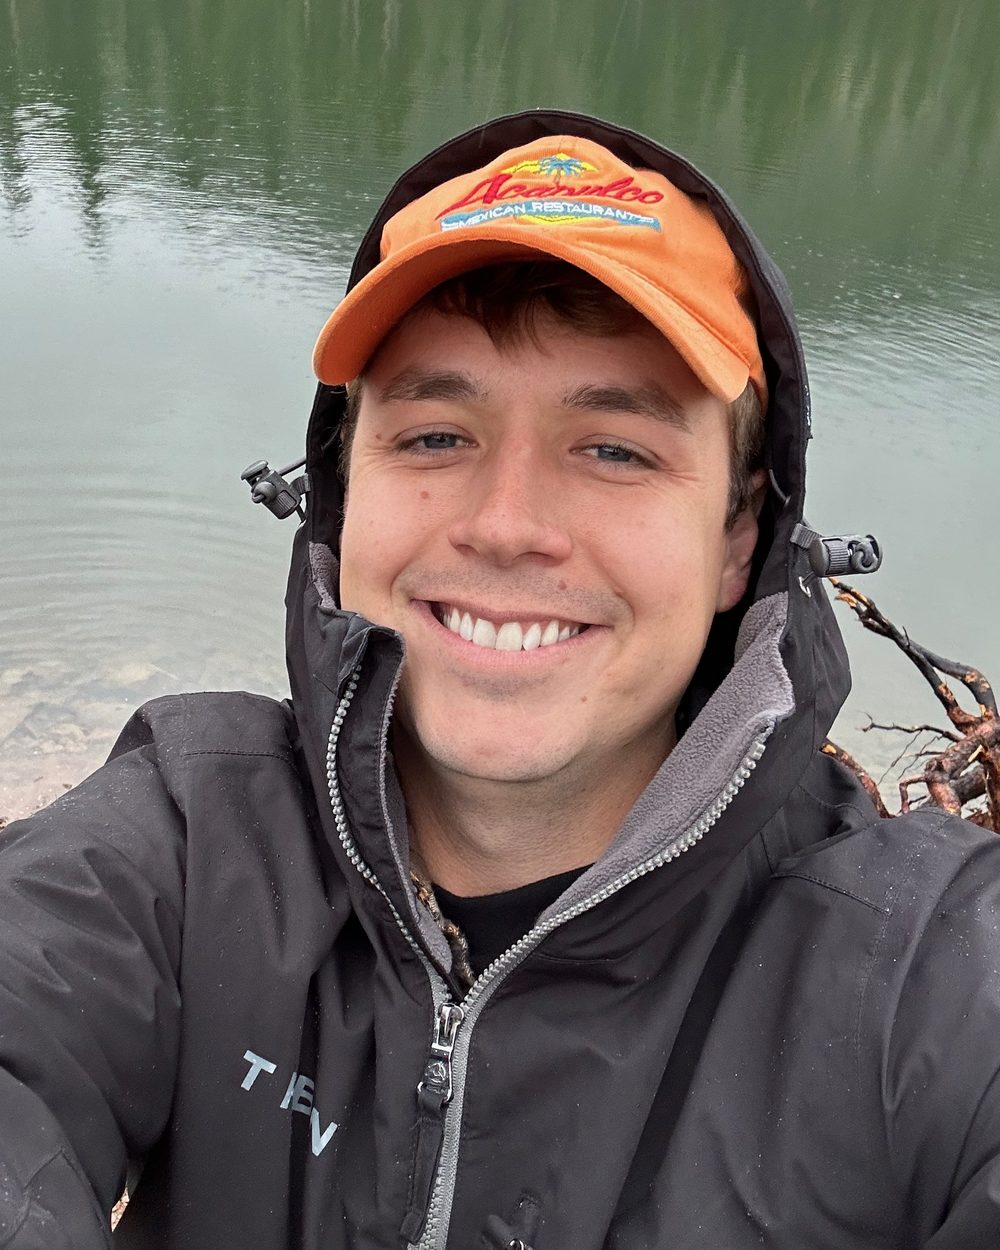
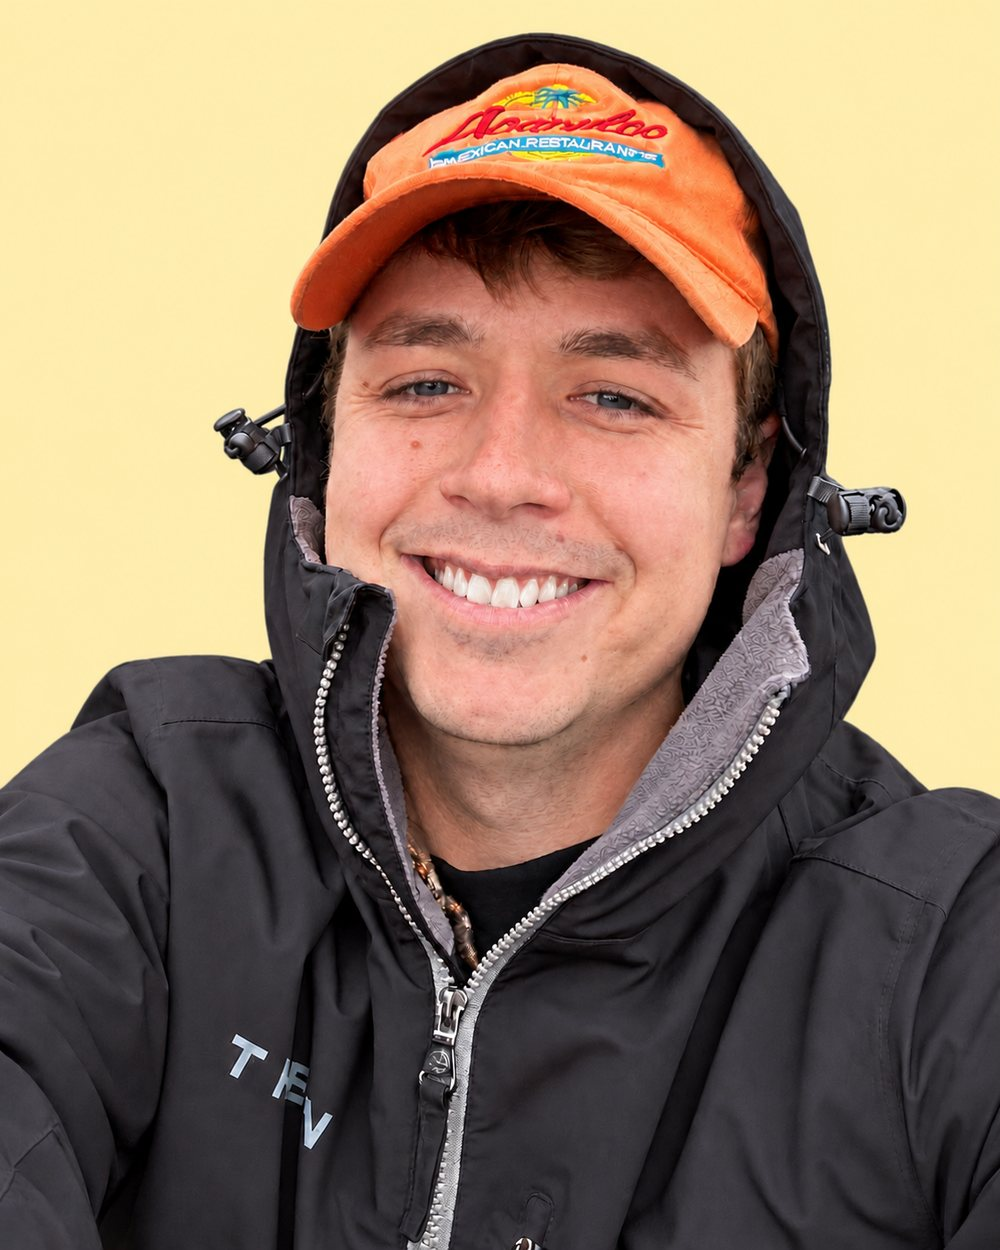
feat: add real work sheets with illustrations and new photo
Replace the sample projects with six real ones, written as problem,
what I built and what changed, with no clients named. Each sheet gets
an inline SVG illustration in ink with one marker-yellow highlight.
Swap the hero and signoff photos for the yellow-background portrait.

Ignore notes/, which holds private research on candidate projects.

diff --git a/index.html b/index.html
@@ -24,7 +24,7 @@
         <div class="stage" id="top">
             <div class="hero">
                 <figure class="snapshot">
-                    <img src="images/grant.jpg" width="1000" height="1250" alt="Grant Bellar smiling by a mountain lake in an orange cap and rain jacket">
+                    <img src="images/grant.jpg" width="1000" height="1250" alt="Grant Bellar smiling in an orange cap and rain jacket">
                     <figcaption>Grant, Wichita KS</figcaption>
                 </figure>
                 <div>
@@ -62,61 +62,65 @@
                 <header>
                     <h2>Things I&rsquo;ve built</h2>
                 </header>
-                <!-- Sample projects until real ones are written up. -->
                 <div class="work-list" data-layout="desk">
-                    <article class="sheet" data-offer="Prototype" style="--hue:205">
-                        <figure class="shot"><i></i></figure>
+                    <article class="sheet" data-offer="Prototype">
+                        <figure class="shot"><svg viewBox="0 0 320 200" aria-hidden="true"><rect x="44" y="34" width="112" height="146" rx="3" class="paper"/><path d="M60 46h56"/><circle cx="66" cy="62" r="6"/><circle cx="88" cy="62" r="6" class="ink"/><circle cx="110" cy="62" r="6"/><circle cx="132" cy="62" r="6"/><circle cx="66" cy="86" r="6"/><circle cx="88" cy="86" r="6"/><circle cx="110" cy="86" r="6"/><circle cx="132" cy="86" r="6" class="ink"/><circle cx="66" cy="110" r="6" class="ink"/><circle cx="88" cy="110" r="6"/><circle cx="110" cy="110" r="6"/><circle cx="132" cy="110" r="6"/><circle cx="66" cy="134" r="6"/><circle cx="88" cy="134" r="6"/><circle cx="110" cy="134" r="6" class="ink"/><circle cx="132" cy="134" r="6"/><circle cx="66" cy="158" r="6"/><circle cx="88" cy="158" r="6" class="ink"/><circle cx="110" cy="158" r="6"/><circle cx="132" cy="158" r="6"/><circle cx="218" cy="88" r="42" class="paper"/><path d="M210 40h16M218 40v6M246 56l6-6"/><path d="M218 88V62M218 88l16 10"/><circle cx="218" cy="88" r="3" class="ink"/><rect x="186" y="134" width="104" height="58" rx="7" class="hl"/><rect x="186" y="134" width="104" height="58" rx="7"/><path d="M186 150h104M198 176h30M240 176h18"/></svg></figure>
                         <span class="tag">Prototype</span>
-                        <h3>Class booking for a fitness studio</h3>
-                        <p class="who">A studio that outgrew its no-code booking app.</p>
+                        <h3>Board exam prep people pay for</h3>
+                        <p class="summary">Thousands of practice questions and no way to sell or deliver them.</p>
                         <dl>
-                            <div><dt>The problem</dt><dd>Double bookings and failed payments.</dd></div>
-                            <div><dt>What I built</dt><dd>Real booking and payments, with every member moved over.</dd></div>
-                            <div><dt>What changed</dt><dd>Members book and pay in one step.</dd></div>
+                            <div><dt>What I built</dt><dd>Timed 100-question exams with predicted scores, a bank of about 5,000 review questions, and Stripe payments.</dd></div>
+                            <div><dt>What changed</dt><dd>Live and paid since February 2024, now on its third version.</dd></div>
                         </dl>
                     </article>
-                    <article class="sheet" data-offer="Rescue" style="--hue:28">
-                        <figure class="shot"><i></i></figure>
+                    <article class="sheet" data-offer="Rescue">
+                        <figure class="shot"><svg viewBox="0 0 320 200" aria-hidden="true"><path d="M37 45L113 85" class="thin"/><path d="M93 37L55 93" class="thin"/><path d="M37 45L85 139" class="thin"/><path d="M55 93L123 161" class="thin"/><path d="M113 85L35 143" class="thin"/><path d="M93 37L85 139" class="thin"/><path d="M35 143L123 161" class="thin"/><path d="M55 93L113 85" class="thin"/><path d="M37 45L93 37" class="thin"/><path d="M85 139L123 161" class="thin"/><rect x="22" y="34" width="30" height="22" rx="3" class="paper"/><rect x="78" y="26" width="30" height="22" rx="3" class="paper"/><rect x="40" y="82" width="30" height="22" rx="3" class="paper"/><rect x="98" y="74" width="30" height="22" rx="3" class="paper"/><rect x="20" y="132" width="30" height="22" rx="3" class="paper"/><rect x="70" y="128" width="30" height="22" rx="3" class="paper"/><rect x="108" y="150" width="30" height="22" rx="3" class="paper"/><path d="M154 100h38M182 90l10 10-10 10"/><rect x="208" y="54" width="92" height="92" rx="6" class="hl"/><rect x="208" y="54" width="92" height="92" rx="6"/><path d="M224 80h60M224 100h60M224 120h40"/></svg></figure>
                         <span class="tag">Rescue</span>
-                        <h3>Inventory app left half-finished</h3>
-                        <p class="who">A distributor whose developer disappeared halfway.</p>
+                        <h3>Off no-code, onto one system</h3>
+                        <p class="summary">Seven separate tools shared one database, so every fix touched all of them.</p>
                         <dl>
-                            <div><dt>The problem</dt><dd>Months of undocumented, half-working code.</dd></div>
-                            <div><dt>What I built</dt><dd>Kept what was solid, finished the rest, and wrote it all down.</dd></div>
-                            <div><dt>What changed</dt><dd>Live in the warehouse that quarter.</dd></div>
+                            <div><dt>What I built</dt><dd>One app the team owns, moved over a piece at a time with every record and file checked.</dd></div>
+                            <div><dt>What changed</dt><dd>23,664 records and 10,676 files moved, and the old tools switched off.</dd></div>
                         </dl>
                     </article>
-                    <article class="sheet" data-offer="Automation" style="--hue:140">
-                        <figure class="shot"><i></i></figure>
+                    <article class="sheet" data-offer="Automation">
+                        <figure class="shot"><svg viewBox="0 0 320 200" aria-hidden="true"><rect x="30" y="34" width="120" height="146" rx="5" class="paper"/><circle cx="62" cy="66" r="14"/><path d="M84 60h46M84 72h30"/><path d="M46 104h40M46 132h40M46 160h40" class="thin"/><rect x="94" y="96" width="42" height="14" rx="2"/><path d="M100 103h28"/><rect x="94" y="124" width="42" height="14" rx="2"/><path d="M100 131h22"/><rect x="94" y="152" width="42" height="14" rx="2" class="hl"/><rect x="94" y="152" width="42" height="14" rx="2"/><path d="M100 159h30"/><rect x="212" y="36" width="76" height="50" rx="4" class="paper"/><path d="M212 40l38 26 38-26"/><text x="250" y="82" class="t">?</text><rect x="212" y="118" width="76" height="50" rx="4" class="paper"/><path d="M212 122l38 26 38-26"/><path d="M238 156l8 7 16-16"/><path d="M160 70c18-14 32-16 44-12M196 52l8 6-8 6"/><path d="M204 150c-16 8-30 10-44 8M168 150l-8 8 9 6"/></svg></figure>
                         <span class="tag">Automation</span>
-                        <h3>Order intake from email to the books</h3>
-                        <p class="who">A wholesale bakery taking orders by email, phone and text.</p>
+                        <h3>Applicants who answer their own questions</h3>
+                        <p class="summary">Most applications were just an email and a resume, and recruiters chased every missing answer by hand.</p>
                         <dl>
-                            <div><dt>The problem</dt><dd>Two hours every morning retyping orders.</dd></div>
-                            <div><dt>What I built</dt><dd>A service that drafts each order in the books and flags anything unclear.</dd></div>
-                            <div><dt>What changed</dt><dd>Fifteen minutes of review instead.</dd></div>
+                            <div><dt>What I built</dt><dd>The system emails for what&rsquo;s missing, AI reads the reply, and clear mismatches are declined with 48 hours to undo.</dd></div>
+                            <div><dt>What changed</dt><dd>Recruiters review candidates instead of chasing them.</dd></div>
                         </dl>
                     </article>
-                    <article class="sheet" data-offer="Custom tools" style="--hue:265">
-                        <figure class="shot"><i></i></figure>
+                    <article class="sheet" data-offer="Automation">
+                        <figure class="shot"><svg viewBox="0 0 320 200" aria-hidden="true"><rect x="22" y="62" width="48" height="96" rx="4" class="paper"/><circle cx="46" cy="86" r="10"/><path d="M32 114c4-10 24-10 28 0"/><path d="M32 126h28M32 136h20" class="thin"/><rect x="52" y="140" width="10" height="14" rx="2"/><path d="M46 58V30"/><path d="M46 30h20l-6 8 6 8h-20z" class="hl"/><path d="M46 30h20l-6 8 6 8h-20"/><rect x="80" y="62" width="48" height="96" rx="4" class="paper"/><circle cx="104" cy="86" r="10"/><path d="M90 114c4-10 24-10 28 0"/><path d="M90 126h28M90 136h20" class="thin"/><path d="M110 148h10" class="thin"/><rect x="138" y="62" width="48" height="96" rx="4" class="paper"/><circle cx="162" cy="86" r="10"/><path d="M148 114c4-10 24-10 28 0"/><path d="M148 126h28M148 136h20" class="thin"/><rect x="168" y="140" width="10" height="14" rx="2"/><path d="M162 58V30"/><path d="M162 30h20l-6 8 6 8h-20z" class="hl"/><path d="M162 30h20l-6 8 6 8h-20"/><rect x="196" y="62" width="48" height="96" rx="4" class="paper"/><circle cx="220" cy="86" r="10"/><path d="M206 114c4-10 24-10 28 0"/><path d="M206 126h28M206 136h20" class="thin"/><rect x="226" y="140" width="10" height="14" rx="2"/><path d="M220 58V30"/><path d="M220 30h20l-6 8 6 8h-20z" class="hl"/><path d="M220 30h20l-6 8 6 8h-20"/><rect x="254" y="62" width="48" height="96" rx="4" class="paper"/><circle cx="278" cy="86" r="10"/><path d="M264 114c4-10 24-10 28 0"/><path d="M264 126h28M264 136h20" class="thin"/><path d="M284 148h10" class="thin"/></svg></figure>
+                        <span class="tag">Automation</span>
+                        <h3>Catching fake applicants</h3>
+                        <p class="summary">Rings of fake applicants reused phones, emails and resumes, and recruiters lost hours to them.</p>
+                        <dl>
+                            <div><dt>What I built</dt><dd>A risk score from simple, checkable signals that flags them before anyone gets on a call.</dd></div>
+                            <div><dt>What changed</dt><dd>Of 7,571 applicants, 101 were flagged high risk, and none of the real hires were.</dd></div>
+                        </dl>
+                    </article>
+                    <article class="sheet" data-offer="Custom tools">
+                        <figure class="shot"><svg viewBox="0 0 320 200" aria-hidden="true"><rect x="22" y="40" width="124" height="128" class="paper"/><path d="M22 61h124" class="thin"/><path d="M22 82h124" class="thin"/><path d="M22 103h124" class="thin"/><path d="M22 124h124" class="thin"/><path d="M22 145h124" class="thin"/><path d="M22 166h124" class="thin"/><path d="M53 40v128" class="thin"/><path d="M84 40v128" class="thin"/><path d="M115 40v128" class="thin"/><g transform="rotate(-8 60 96)"><rect x="40" y="80" width="40" height="34" class="paper"/><path d="M46 92c6-4 10 4 16 0s10 4 12 0M46 102h20"/></g><g transform="rotate(10 118 140)"><rect x="98" y="124" width="40" height="34" class="paper"/><path d="M104 136c6-4 10 4 16 0s10 4 12 0M104 146h18"/></g><path d="M158 104h30M178 94l10 10-10 10"/><rect x="202" y="28" width="94" height="152" rx="3" class="paper"/><path d="M216 48h40" class="bold"/><path d="M216 74h66M216 94h66M216 114h40" class="thin"/><path d="M216 150h66"/><path d="M248 164h34" class="bold"/><path d="M266 108v-6a7 7 0 0 1 14 0v6"/><rect x="262" y="108" width="22" height="16" rx="3" class="hl"/><rect x="262" y="108" width="22" height="16" rx="3"/></svg></figure>
                         <span class="tag">Custom tools</span>
-                        <h3>Job scheduling for a field crew</h3>
-                        <p class="who">A home services company running twelve techs off a whiteboard.</p>
+                        <h3>Invoices that stay right</h3>
+                        <p class="summary">Invoices and vendor payments were built by hand in a spreadsheet every month.</p>
                         <dl>
-                            <div><dt>The problem</dt><dd>No scheduling software fit how they work.</dd></div>
-                            <div><dt>What I built</dt><dd>A simple office app and a phone view for techs.</dd></div>
-                            <div><dt>What changed</dt><dd>Techs see tomorrow&rsquo;s route the night before.</dd></div>
+                            <div><dt>What I built</dt><dd>A billing system that calculates from live data, locks exchange rates, and corrects itself when hours change.</dd></div>
+                            <div><dt>What changed</dt><dd>Tested against real production data before the switch, with nothing deleted.</dd></div>
                         </dl>
                     </article>
-                    <article class="sheet" data-offer="Dashboards" style="--hue:345">
-                        <figure class="shot"><i></i></figure>
-                        <span class="tag">Dashboards</span>
-                        <h3>Weekly numbers without the spreadsheet</h3>
-                        <p class="who">A nonprofit reporting to a board and three funders.</p>
+                    <article class="sheet" data-offer="Data">
+                        <figure class="shot"><svg viewBox="0 0 320 200" aria-hidden="true"><path d="M24 30h58l20 20v100H24z" class="paper"/><path d="M82 30v20h20"/><path d="M34 64c6-4 10 4 16 0s10 4 16 0 10 4 16 0M34 80c6-4 10 4 16 0s10 4 16 0M34 96c6-4 10 4 16 0s10 4 16 0 10 4 16 0M34 112c6-4 10 4 16 0s10 4 16 0M34 128c6-4 10 4 16 0s10 4 16 0 10 4 16 0"/><path d="M118 66h64l-22 40h-20z" class="paper"/><path d="M126 78h48M134 92h32" class="thin"/><circle cx="150" cy="122" r="3" class="ink"/><circle cx="150" cy="138" r="3" class="ink"/><circle cx="150" cy="154" r="3" class="ink"/><path d="M164 146h34M188 136l10 10-10 10"/><rect x="222" y="150" width="76" height="34" rx="4" class="paper"/><rect x="216" y="140" width="76" height="34" rx="4" class="paper"/><rect x="210" y="130" width="76" height="34" rx="4" class="paper"/><path d="M220 144h40M220 154h26" class="thin"/><rect x="212" y="58" width="82" height="34" rx="4" class="hl"/><rect x="212" y="58" width="82" height="34" rx="4"/><path d="M222 76l6 6 10-12"/><text x="246" y="82" class="t">1,448</text></svg></figure>
+                        <span class="tag">Data</span>
+                        <h3>From Word documents to a question bank</h3>
+                        <p class="summary">Questions, answers, explanations and sources lived in Word files with homemade formatting.</p>
                         <dl>
-                            <div><dt>The problem</dt><dd>A day of spreadsheet work for every report.</dd></div>
-                            <div><dt>What I built</dt><dd>A dashboard that updates itself every night.</dd></div>
-                            <div><dt>What changed</dt><dd>Reports take minutes.</dd></div>
+                            <div><dt>What I built</dt><dd>Parsers that read the formatting, check the count at every step, and build quizzes automatically.</dd></div>
+                            <div><dt>What changed</dt><dd>1,448 review and 565 exam questions loaded in the first batches, with every count matched.</dd></div>
                         </dl>
                     </article>
                 </div>

diff --git a/styles.css b/styles.css
@@ -163,18 +163,20 @@ footer { max-width: 1120px; margin: 0 auto; padding: 32px clamp(16px, 4vw, 56px)
 }
 .sheet .tag { display: inline-block; font-size: .72em; font-weight: 800; letter-spacing: .06em; text-transform: uppercase; color: var(--blue); margin-bottom: .6em; }
 .sheet h3 { margin: 0 0 .25em; font-size: clamp(1.25rem, 1rem + 1vw, 1.7rem); font-weight: 800; line-height: 1.12; letter-spacing: -0.025em; }
-.sheet .who { margin: 0 0 1em; color: var(--ink-soft); }
+.sheet .summary { margin: 0 0 1em; color: var(--ink-soft); }
 .sheet dl { margin: 0; }
 .sheet dl div { padding: .6em 0; border-top: 1px solid var(--rule); }
 .sheet dt { font-weight: 800; font-size: .85em; }
 .sheet dd { margin: .1em 0 0; }
 
-/* Screenshot taped to the sheet. The <i> is a placeholder browser window until real images exist. */
+/* Illustration taped to the sheet: ink line drawing on graph paper, one marker-yellow highlight. */
 .shot {
     position: relative;
     margin: 0 0 1.2em;
     aspect-ratio: 16 / 10;
-    background: hsl(var(--hue, 210) 45% 92%);
+    background-color: var(--paper);
+    background-image: radial-gradient(rgba(23, 42, 69, .14) 1px, transparent 1.4px);
+    background-size: 14px 14px;
     border: 1px solid rgba(23, 42, 69, .12);
     transform: rotate(-.6deg);
 }
@@ -185,24 +187,20 @@ footer { max-width: 1120px; margin: 0 auto; padding: 32px clamp(16px, 4vw, 56px)
     background: rgba(255, 228, 92, .55);
     box-shadow: 0 1px 1px rgba(23, 42, 69, .08);
 }
-.shot::before { left: 10%; transform: rotate(-4deg); }
-.shot::after { right: 10%; transform: rotate(5deg); }
+.shot::before { left: 10%; transform: rotate(-4deg); z-index: 1; }
+.shot::after { right: 10%; transform: rotate(5deg); z-index: 1; }
 .shot img { display: block; width: 100%; height: 100%; object-fit: cover; }
-.shot i {
-    position: absolute; inset: 12% 10% 0;
-    background: #fff;
-    border-radius: 6px 6px 0 0;
-    box-shadow: 0 0 0 1px rgba(23, 42, 69, .1);
-    background-image:
-        radial-gradient(circle at 12px 10px, #E1E5EA 3px, transparent 4px),
-        radial-gradient(circle at 24px 10px, #E1E5EA 3px, transparent 4px),
-        radial-gradient(circle at 36px 10px, #E1E5EA 3px, transparent 4px),
-        linear-gradient(#F3F5F8 0 20px, transparent 20px),
-        linear-gradient(90deg, hsl(var(--hue, 210) 60% 55%) 0 0);
-    background-size: auto, auto, auto, auto, 40% 10px;
-    background-position: 0 0, 0 0, 0 0, 0 0, 8% 38px;
-    background-repeat: no-repeat;
+.shot svg {
+    position: absolute; inset: 0;
+    width: 100%; height: 100%;
+    fill: none; stroke: var(--ink); stroke-width: 2; stroke-linecap: round; stroke-linejoin: round;
 }
+.shot .thin { stroke-width: 1.4; opacity: .55; }
+.shot .bold { stroke-width: 4; }
+.shot .paper { fill: var(--paper); }
+.shot .ink { fill: var(--ink); }
+.shot .hl { fill: var(--marker); stroke: none; }
+.shot .t { fill: var(--ink); stroke: none; font: 800 17px 'Hanken Grotesk', sans-serif; }
 
 /* Desk: every sheet laid out at once. Also the layout without JavaScript. */
 .work-list[data-layout="desk"] {
@@ -218,7 +216,7 @@ footer { max-width: 1120px; margin: 0 auto; padding: 32px clamp(16px, 4vw, 56px)
 [data-layout="desk"] .sheet:nth-child(3n) { transform: rotate(-.5deg) translateY(-6px); }
 [data-layout="desk"] .sheet:hover, [data-layout="desk"] .sheet:focus-within { transform: rotate(0) translateY(-4px); box-shadow: 0 1px 3px rgba(23, 42, 69, .18), 0 24px 40px -20px rgba(23, 42, 69, .45); }
 [data-layout="desk"] .sheet h3 { font-size: 1.15em; }
-[data-layout="desk"] .sheet .who { font-size: .9em; margin-bottom: .8em; }
+[data-layout="desk"] .sheet .summary { font-size: .9em; margin-bottom: .8em; }
 [data-layout="desk"].enhanced .sheet dl { display: none; }
 .sheet .more { font: inherit; font-weight: 600; color: var(--blue); background: none; border: 0; padding: 0; cursor: pointer; text-decoration: underline; text-underline-offset: .16em; }
 

diff --git a/CLAUDE.md b/CLAUDE.md
@@ -28,7 +28,7 @@ The look comes from design B in `designs/b.html`:
 
 ## Work Section
 
-Each project is an `article.sheet` inside `.work-list` in `index.html`, with `data-offer` (used for the stack's filter chips), a `.shot` screenshot, tag, title, who it was for, and a problem / what I built / what changed list. The projects are samples until real ones are written up.
+Each project is an `article.sheet` inside `.work-list` in `index.html`, with `data-offer` (used for the stack's filter chips), a `.shot` screenshot, tag, title, the problem as a one-line summary, and a what I built / what changed list. Clients and companies are never named or described; the problem and solution carry each sheet. Each sheet has an inline SVG illustration: ink lines on a dotted grid with one marker-yellow highlight (classes thin, bold, paper, ink, hl, t).
 
 Two layouts read the same markup:
 - Desk (default): sheets laid out in a grid, "Read the whole story" opens a dialog. A horizontal swipe row on phones. Also the layout without JavaScript.
